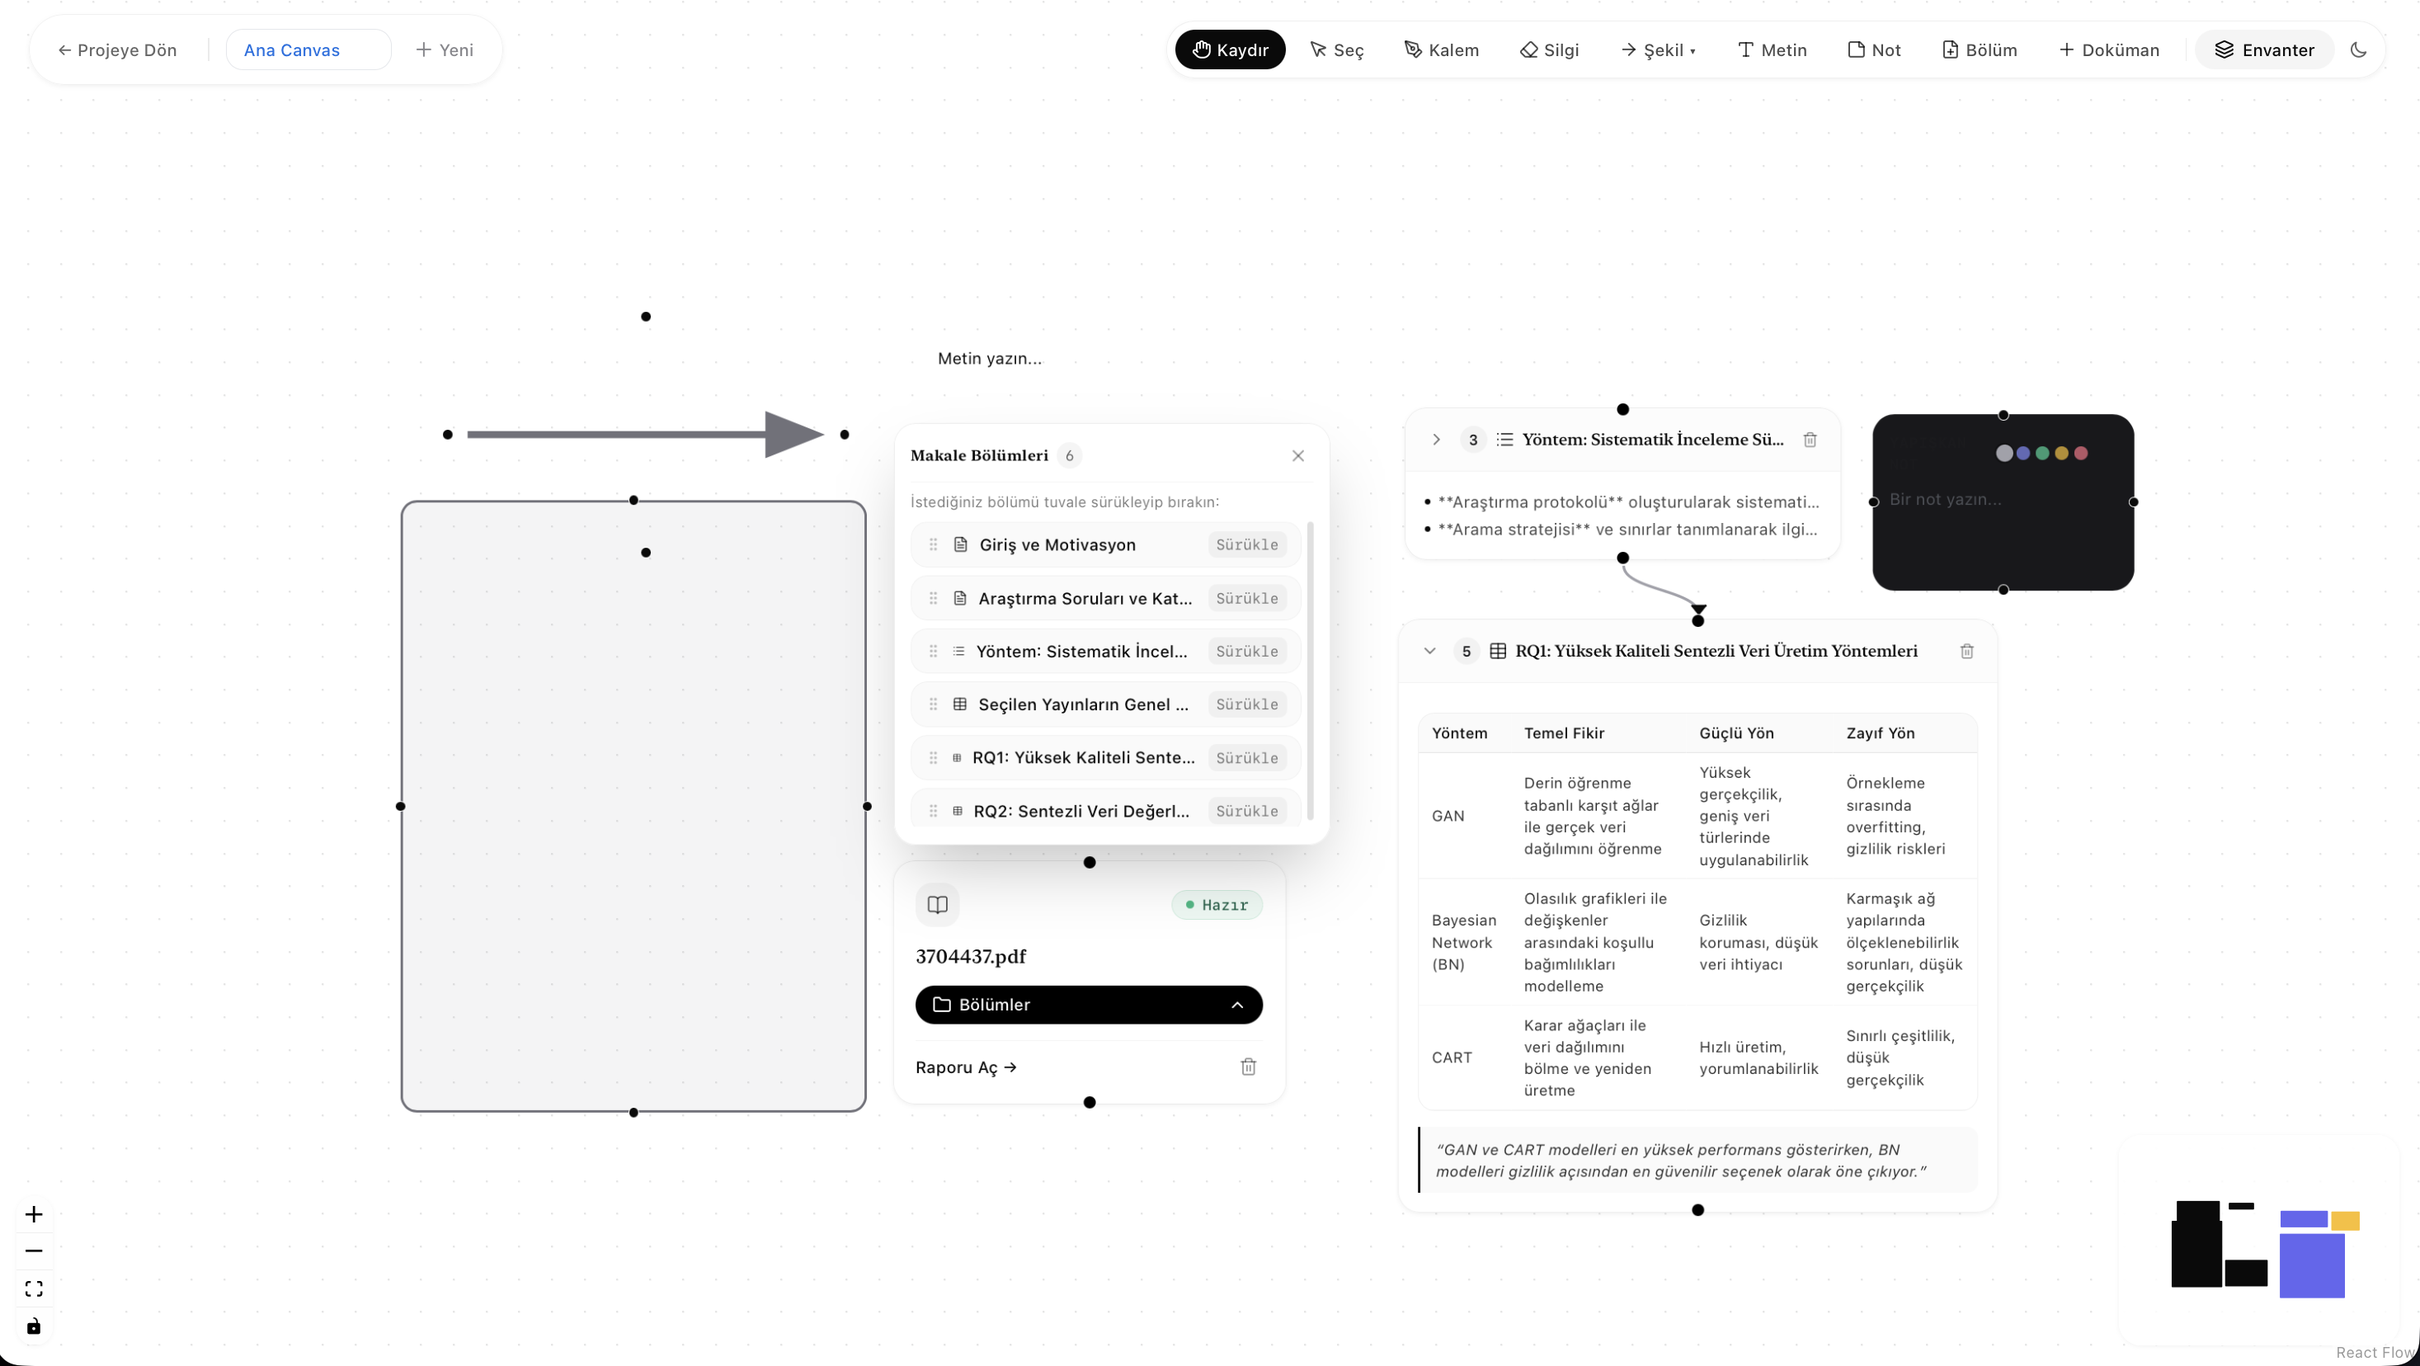
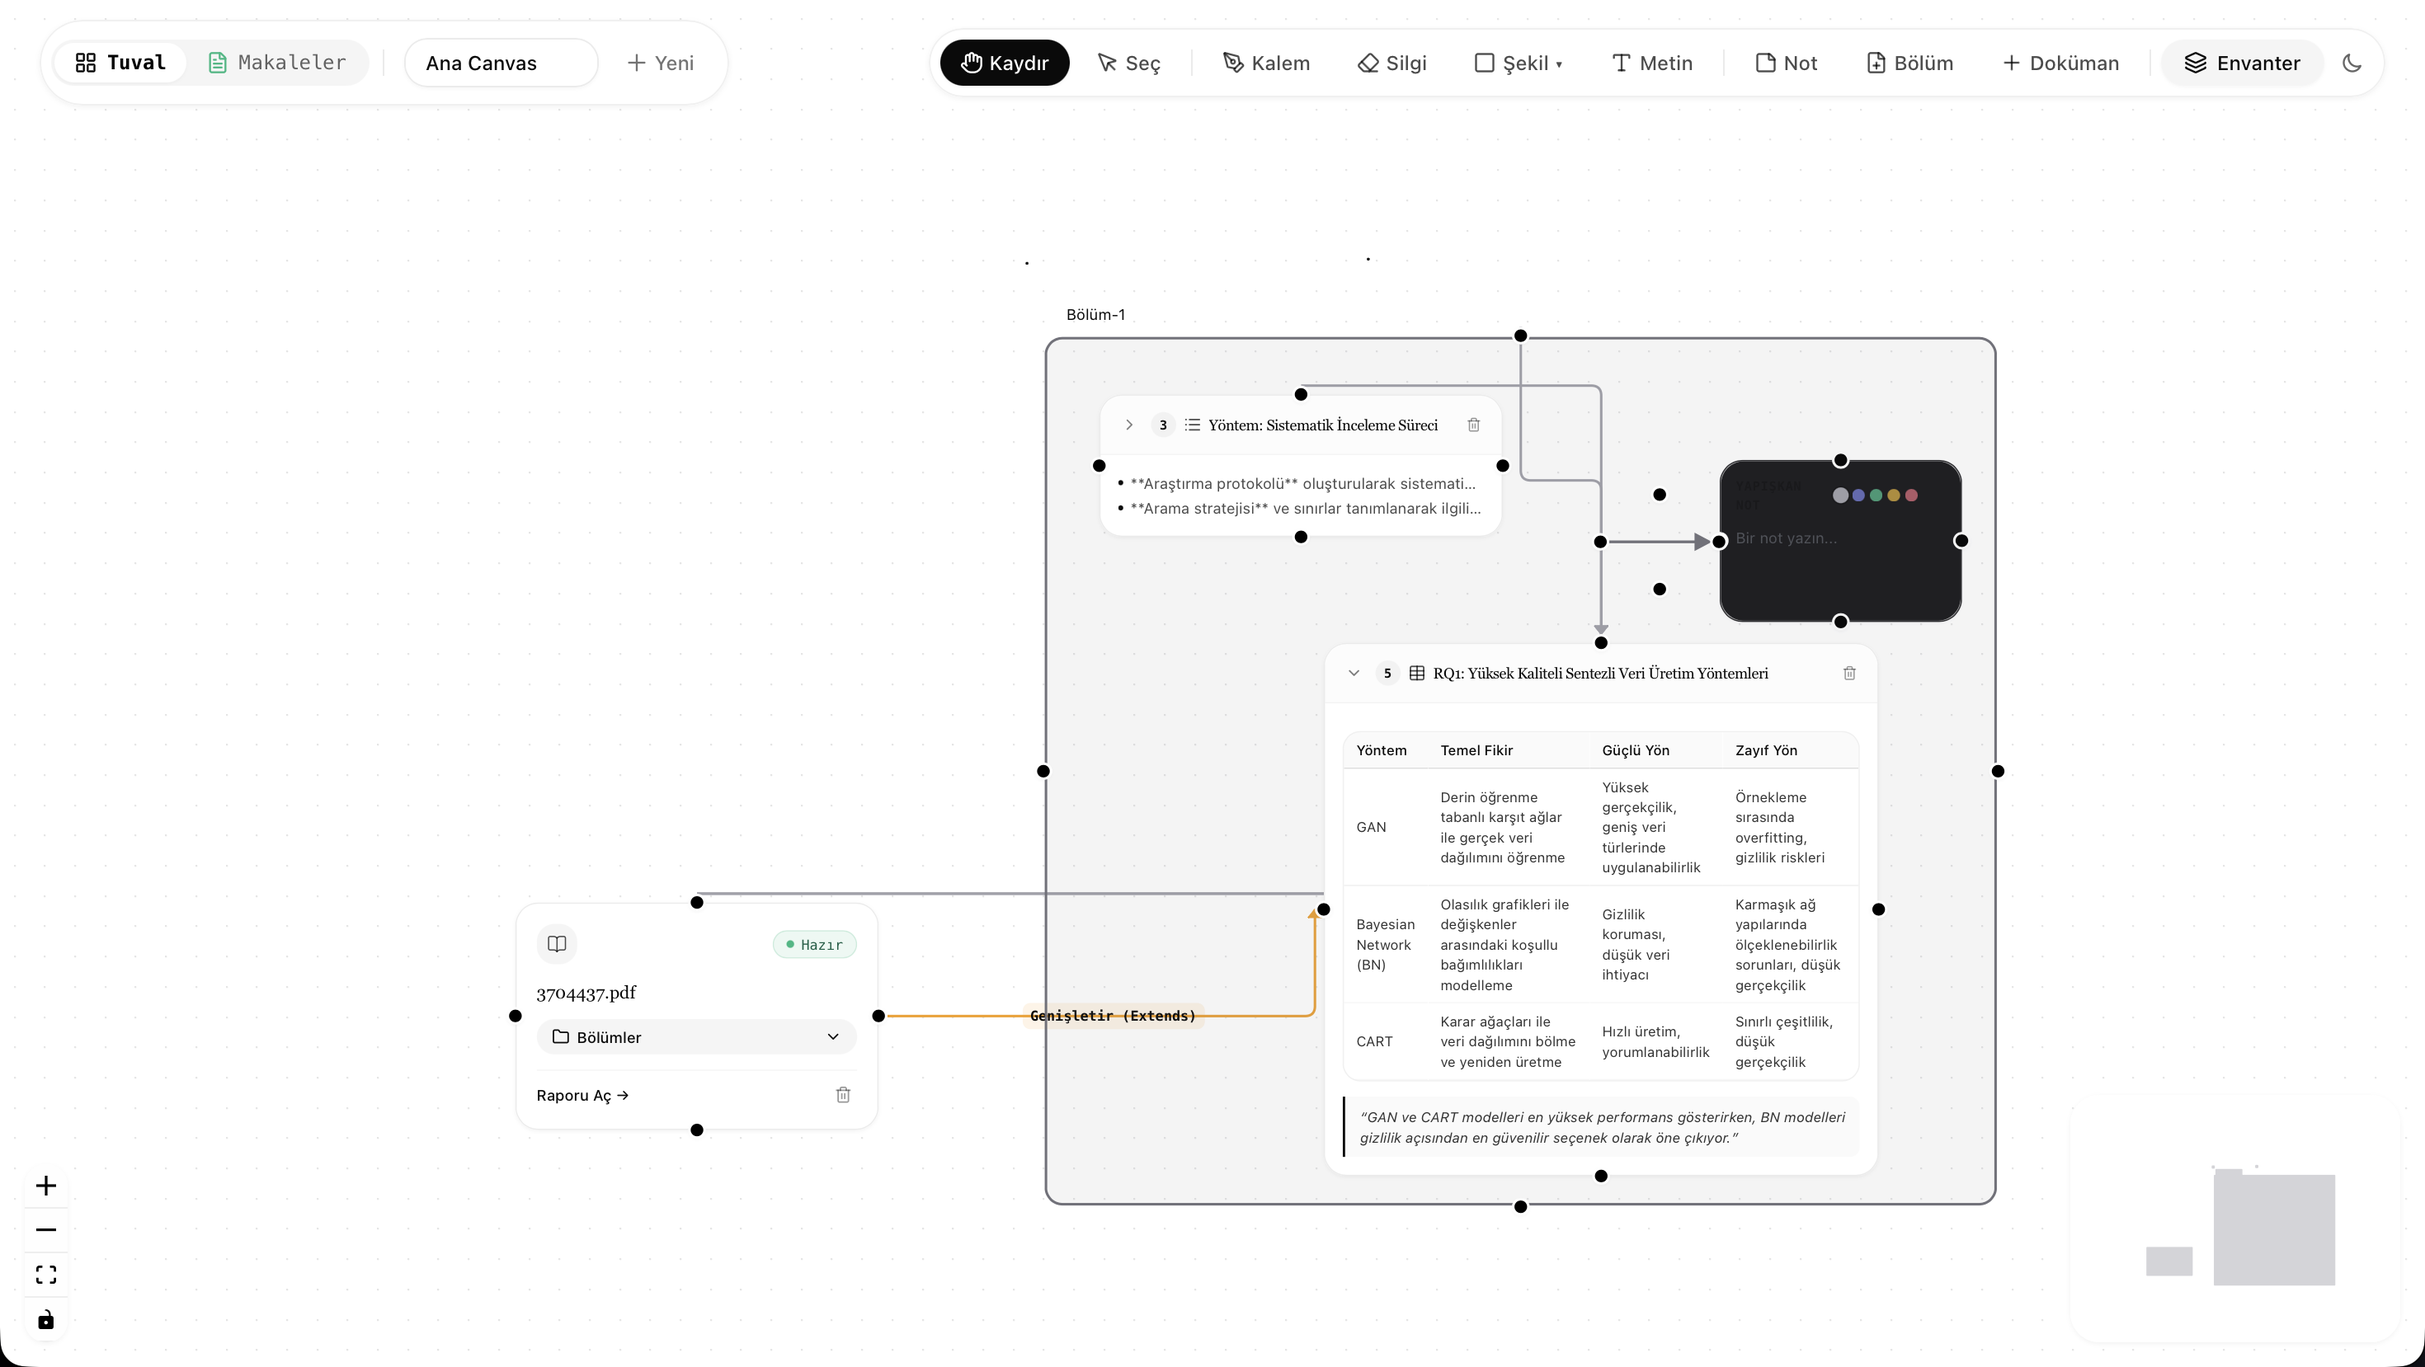
feat(canvas): implement auto-orienting dynamic edges, custom connection lines, and update documentation screenshots

diff --git a/frontend/src/components/canvas/SmartOrientedEdge.tsx b/frontend/src/components/canvas/SmartOrientedEdge.tsx
@@ -1,0 +1,80 @@
+import React from 'react';
+import { BaseEdge, EdgeProps, getSmoothStepPath, Position } from 'reactflow';
+
+export const SmartOrientedEdge: React.FC<EdgeProps> = ({
+  id,
+  sourceX,
+  sourceY,
+  targetX,
+  targetY,
+  sourcePosition: _sourcePosition,
+  targetPosition: _targetPosition,
+  style = {},
+  markerEnd,
+  label,
+  labelStyle,
+  labelBgStyle,
+  labelBgPadding,
+  labelBgBorderRadius,
+}) => {
+  const dx = targetX - sourceX;
+  const dy = targetY - sourceY;
+
+  // Horizontal threshold:
+  // Eğer yatay hizadan yukarıda bi yere gidiyorsa baktığı yön yukarı dönsün (Position.Bottom)
+  // Eğer aşağıdaysa baktığı yön aşağı dönsün (Position.Top)
+  const isTargetAbove = dy < -25;
+  const isTargetBelow = dy > 25;
+
+  let computedTargetPos: Position;
+  let computedSourcePos: Position;
+
+  if (isTargetAbove) {
+    // Hedef yukarıda: Ok YUKARI bakmalı (aşağıdan girer)
+    computedTargetPos = Position.Bottom;
+    if (Math.abs(dy) > Math.abs(dx) * 1.3) {
+      computedSourcePos = Position.Top;
+    } else {
+      computedSourcePos = dx >= 0 ? Position.Right : Position.Left;
+    }
+  } else if (isTargetBelow) {
+    // Hedef aşağıda: Ok AŞAĞI bakmalı (yukarıdan girer)
+    computedTargetPos = Position.Top;
+    if (Math.abs(dy) > Math.abs(dx) * 1.3) {
+      computedSourcePos = Position.Bottom;
+    } else {
+      computedSourcePos = dx >= 0 ? Position.Right : Position.Left;
+    }
+  } else {
+    // Yatay hizada: Sağa veya sola bakar
+    computedTargetPos = dx >= 0 ? Position.Left : Position.Right;
+    computedSourcePos = dx >= 0 ? Position.Right : Position.Left;
+  }
+
+  const [edgePath, labelX, labelY] = getSmoothStepPath({
+    sourceX,
+    sourceY,
+    sourcePosition: computedSourcePos,
+    targetX,
+    targetY,
+    targetPosition: computedTargetPos,
+    borderRadius: 8,
+  });
+
+  return (
+    <BaseEdge
+      id={id}
+      path={edgePath}
+      labelX={labelX}
+      labelY={labelY}
+      label={label}
+      labelStyle={labelStyle}
+      labelShowBg={Boolean(label)}
+      labelBgStyle={labelBgStyle}
+      labelBgPadding={labelBgPadding || [6, 4]}
+      labelBgBorderRadius={labelBgBorderRadius || 6}
+      style={style}
+      markerEnd={markerEnd}
+    />
+  );
+};

diff --git a/frontend/src/components/canvas/SmartConnectionLine.tsx b/frontend/src/components/canvas/SmartConnectionLine.tsx
@@ -1,0 +1,80 @@
+import React from 'react';
+import { ConnectionLineComponentProps, getSmoothStepPath, Position } from 'reactflow';
+
+export const SmartConnectionLine: React.FC<ConnectionLineComponentProps> = ({
+  fromX,
+  fromY,
+  fromPosition,
+  toX,
+  toY,
+  connectionLineStyle,
+}) => {
+  const dx = toX - fromX;
+  const dy = toY - fromY;
+
+  const isTargetAbove = dy < -20;
+  const isTargetBelow = dy > 20;
+
+  let targetPosition: Position;
+  let sourcePosition = fromPosition;
+
+  if (isTargetAbove) {
+    // Yukarı çekiliyorsa: Ok ucu YUKARI baksın
+    targetPosition = Position.Bottom;
+    if (Math.abs(dy) > Math.abs(dx) * 1.3) {
+      sourcePosition = Position.Top;
+    } else {
+      sourcePosition = dx >= 0 ? Position.Right : Position.Left;
+    }
+  } else if (isTargetBelow) {
+    // Aşağı çekiliyorsa: Ok ucu AŞAĞI baksın
+    targetPosition = Position.Top;
+    if (Math.abs(dy) > Math.abs(dx) * 1.3) {
+      sourcePosition = Position.Bottom;
+    } else {
+      sourcePosition = dx >= 0 ? Position.Right : Position.Left;
+    }
+  } else {
+    // Yatay
+    targetPosition = dx >= 0 ? Position.Left : Position.Right;
+    sourcePosition = dx >= 0 ? Position.Right : Position.Left;
+  }
+
+  const [edgePath] = getSmoothStepPath({
+    sourceX: fromX,
+    sourceY: fromY,
+    sourcePosition,
+    targetX: toX,
+    targetY: toY,
+    targetPosition,
+    borderRadius: 8,
+  });
+
+  const strokeColor = connectionLineStyle?.stroke || '#71717A';
+
+  return (
+    <g>
+      <defs>
+        <marker
+          id="connection-arrow"
+          viewBox="0 0 10 10"
+          refX="5"
+          refY="5"
+          markerWidth="6"
+          markerHeight="6"
+          orient="auto-start-reverse"
+        >
+          <path d="M 0 1.5 L 8 5 L 0 8.5 z" fill={strokeColor} />
+        </marker>
+      </defs>
+      <path
+        d={edgePath}
+        fill="none"
+        stroke={strokeColor}
+        strokeWidth={2}
+        strokeDasharray="4 4"
+        markerEnd="url(#connection-arrow)"
+      />
+    </g>
+  );
+};

diff --git a/frontend/src/pages/CanvasPage.tsx b/frontend/src/pages/CanvasPage.tsx
@@ -43,6 +43,8 @@ import { SectionBoxNode, SectionBoxNodeData } from '../components/canvas/Section
 import { ShapeNode } from '../components/canvas/ShapeNode';
 import { StickyNoteNode, StickyNoteNodeData } from '../components/canvas/StickyNoteNode';
 import { TextNode } from '../components/canvas/TextNode';
+import { SmartOrientedEdge } from '../components/canvas/SmartOrientedEdge';
+import { SmartConnectionLine } from '../components/canvas/SmartConnectionLine';
 import { ToolMode, ToolModeProvider, useToolMode } from '../components/canvas/ToolModeContext';
 import { useCanvasDrawing } from '../hooks/canvas/useCanvasDrawing';
 import { useCanvasShortcuts } from '../hooks/canvas/useCanvasShortcuts';
@@ -293,6 +295,15 @@ const CanvasContent: React.FC<CanvasPageProps> = ({
       drawing: DrawingNode,
       shape: ShapeNode,
       text: TextNode,
+    }),
+    []
+  );
+
+  // Custom Edge Tipleri (Akıllı Yönelimli Bağlantı İpleri)
+  const edgeTypes = useMemo(
+    () => ({
+      smoothstep: SmartOrientedEdge,
+      default: SmartOrientedEdge,
     }),
     []
   );
@@ -1019,6 +1030,8 @@ const CanvasContent: React.FC<CanvasPageProps> = ({
         onNodesDelete={onNodesDelete}
         onEdgesDelete={onEdgesDelete}
         nodeTypes={nodeTypes}
+        edgeTypes={edgeTypes}
+        connectionLineComponent={SmartConnectionLine}
         fitView
         // Pan & Select Ayrımı
         panOnDrag={toolMode === 'pan' ? [0, 1, 2] : [1, 2]}

diff --git a/README.md b/README.md
@@ -2,7 +2,7 @@
 
 **Okumadan önce, anlamak için.**
 
-PaperCanvas, akademik makaleleri ve araştırma dokümanlarını (Matematik, Makine Öğrenmesi, Yapay Zeka ve Veri Bilimi odaklı) otomatik olarak analiz eden, ortak yapıları ayrıştıran, matematiksel formülleri LaTeX formatına çeviren ve sonsuz bir görsel tuval üzerinde ekipçe sentezlemenizi sağlayan yeni nesil bir ArGe araştırma atlasıdır.
+PaperCanvas, akademik makaleleri ve araştırma dokümanlarını (Matematik, Makine Öğrenmesi, Yapay Zeka ve Veri Bilimi odaklı) otomatik olarak analiz eden, ortak yapıları ayrıştıran, matematiksel formülleri LaTeX formatına çeviren ve akıllı yönelimli sonsuz bir görsel tuval üzerinde ekipçe sentezlemenizi sağlayan yeni nesil bir ArGe araştırma atlasıdır.
 
 ![PaperCanvas Ana Sayfa](screenshots/anasayfa1.png)
 
@@ -25,11 +25,18 @@ Sonuç olarak: Makalenin kendi görselleri, tabloları, matematiksel notasyonu v
 | Adım | Başlık | Açıklama |
 |---|---|---|
 | 01 | Makaleni Yükle | PDF dosyasını sürükleyip bırakın, asenkron analiz kuyruğu otomatik başlasın. |
-| 02 | Otomatik Analiz | Yöntem, bulgular, matematiksel formüller, görsel ve tablolar tespit edilir. |
-| 03 | Planla ve Onayla | Rapora hangi bölümlerin gireceğine, sırasına ve diyagramlara karar verin. |
-| 04 | Canvas'ta Organize Et | Bölümleri ve dokümanları tuvale sürükleyin, notlar ekleyin ve ilişkiler kurun. |
+| 02 | Otomatik Analiz | Yöntem, bulgular, matematiksel formüller (KaTeX), görsel ve tablolar AST tabanlı tespit edilir. |
+| 03 | Planla ve Onayla | Rapora hangi bölümlerin gireceğine, sırasına ve diyagramlara interaktif kontrol paneliyle karar verin. |
+| 04 | Canvas'ta Organize Et | Bölümleri ve dokümanları tuvale sürükleyin, serbest yönelimli notlar ekleyin ve anlamsal ilişkiler kurun. |
 
-![Nasıl Çalışır](screenshots/anasayfa3.png)
+### Adım 01 & 02: Optik Katmanlama ve Otomatik Semantik Analiz
+![Nasıl Çalışır - Adım 1 ve 2](screenshots/anasayfa3a.png)
+
+### Adım 03: İnteraktif Planlama ve Onay
+![Nasıl Çalışır - Adım 3](screenshots/anasayfa3b.png)
+
+### Adım 04: İnteraktif Zihin Tuvali
+![Nasıl Çalışır - Adım 4](screenshots/anasayfa4.png)
 
 ---
 
@@ -57,53 +64,58 @@ PaperCanvas, farklı bilimsel disiplinlerin kendine has makale yapılarına gör
 - İstatistiksel değerlendirme metriklerini tablolara dönüştürür.
 - Sayısal sonuç ve kıyaslama özetleri sunar.
 
-![Disiplinler](screenshots/anasayfa4.png)
+![Disiplinler](screenshots/anasayfa5.png)
 
 ---
 
 ## Ekran Görüntüleri ve Arayüz Galerisi
 
-### 1. Giriş ve Kimlik Doğrulama
-Supabase JWT entegrasyonu ile güvenli, oturum bazlı çalışma alanı izolasyonu.
+### 1. Giriş ve 3D Düşünce Sahnesi
+Supabase JWT entegrasyonu ile güvenli oturum açma, editoryal form tasarımı ve arka planda fare hareketine duyarlı çift katmanlı 3D topolojik araştırma düğümleri.
 
 ![Giriş Sayfası](screenshots/loginpage.png)
 
-### 2. Projeler ve Araştırma Alanları
-Çok kullanıcılı ekip çalışma alanları, rol bazlı yetkilendirme ve üye yönetimi.
+### 2. Araştırma Atölyeleri (Çalışma Alanları)
+Çok kullanıcılı ekip çalışma sahaları, rol bazlı yetkilendirme (`Sahip` / `Editör` / `İzleyici`), anlık atölye durumu ve tek tıkla doğrudan tuvale geçiş.
 
 ![Proje Listesi](screenshots/projects.png)
 
-### 3. Doküman Envanteri ve Yükleme
-PDF yükleme, arka plan işlem durumu takibi ve ortak doküman kütüphanesi.
+### 3. Makale Masası & Adaptif Semantik Kartlar
+- **Merkezi Çalışma Alanı Seçicisi:** `[ 🗺 Uzamsal Tuval (Canvas) ] ⇄ [ 📑 Makale Masası ]` geçişi.
+- **Esnek Çıkarım Vitrini:** Dosya adı karmaşası yerine temiz editoryal başlıklar; makalenin türüne göre otomatik KaTeX çekirdek formülü, SOTA kıyaslama rozeti veya semantik AST bölümleme gösterimi.
+- **Doğrudan Aksiyon:** Makaleyi raporda açma veya tuvaldeki konumuna tek tıkla odaklanma.
 
 ![Doküman Yönetimi](screenshots/documents.png)
 
-### 4. Yapılandırılmış Rapor ve LaTeX Görünümü
-Docling ayrıştırması, KaTeX matematiksel dizgisi ve etkileşimli içerik kartları.
+### 4. Akıllı Yönelimli Sonsuz Tuval (Spatial Canvas)
+- **Akıllı Yönelimli Bağlantı İpleri (`SmartOrientedEdge`):** İpin hedefi başlangıcın yatay hizasından yukarıdaysa varış açısı ve oku otomatik olarak **YUKARI (↑)**; aşağıdaysa **AŞAĞI (↓)** döner.
+- **Serbest 4-Yönlü Bağlantı:** Kutuların 4 ana kenarındaki (Üst, Sağ, Alt, Sol) noktalardan serbestçe ip çıkarma ve bağlama (`ConnectionMode.Loose`).
+- **Kategorize İlişki Menüsü & Renk Paleti:** Çizgiye çift tıklandığında açılan ML & Mimari, Bilimsel ve Mantıksal ilişki etiketleri ile 5 renkli (Nötr, İndigo, Zümrüt, Kehribar, Gül) ip paleti.
+- **Monokrom Radar Haritası & Yüzen Araç Adaları:** Navigasyon, serbest çizim ve içerik düğümlerine ayrılmış modern araç çubuğu.
+
+![Görsel Canvas](screenshots/canvas.png)
+
+### 5. Yapılandırılmış Rapor ve LaTeX Görünümü
+Docling ayrıştırması, KaTeX matematiksel dizgisi, etkileşimli içerik kartları ve analiz hiyerarşisi.
 
 ![Rapor Görünümü 1](screenshots/reports1.png)
 ![Rapor Görünümü 2](screenshots/reports2.png)
 ![Rapor Görünümü 3](screenshots/reports3.png)
 ![Rapor Görünümü 4](screenshots/reports4.png)
 
-### 5. RAG Destekli Araştırma Asistanı (Chatbot)
-Vektör indeksli doküman üzerinde kaynak sayfa referanslı, halüsinasyon korumalı soru-cevap.
+### 6. RAG Destekli Araştırma Asistanı (Chatbot)
+Vektör indeksli doküman üzerinde kaynak sayfa referanslı, halüsinasyon korumalı soru-cevap asistanı.
 
 ![Chatbot](screenshots/chatbot.png)
 
-### 6. Sonsuz Canvas Çalışma Alanı
-React Flow tabanlı, doküman kutucukları, rapor bölümleri, notlar ve yönlü ilişkiler içeren görsel sentez tuvali.
-
-![Görsel Canvas](screenshots/canvas.png)
-
 ---
 
-## Proje Geliştirme Adımları ve Fazlar
+## Proje Geliştirme Fazları ve Mimari Adımları
 
 <details>
-<summary><b>Faz 1: Analiz Motoru ve Web Arayüzü (Adım 1 - 9)</b></summary>
+<summary><b>Faz 1: Çekirdek Analiz Pipeline ve Raporlama (Adım 1 - 9)</b></summary>
 
-- **Adım 1 - Docling Parser:** PDF dokümanlarını layout-aware olarak ayrıştırarak bölümler (sections), başlık seviyeleri, sayfa aralıkları ve matematiksel formülleri yapılandırılmış JSON çıktısına dönüştürür.
+- **Adım 1 - Docling ile İskelet Ayrıştırma:** Docling parser ile PDF belgelerinden hiyerarşik yapı (başlıklar, paragraflar, tablolar, formüller ve görseller) çıkarılır.
 - **Adım 2 - PaperProfile Sınıflandırıcısı:** Düşük token maliyetiyle doküman iskeletini tek seferlik LLM çağrısıyla analiz ederek 17 bağımsız içerik bayrağı, birincil araştırma alanı (primary_domain) ve güven skoru çıkarır.
 - **Adım 3 - Section Routing ve ChromaDB:** PaperProfile bayraklarına göre makale için üretilecek aktif rapor bölüm gruplarını belirler ve bölüm sınırlarını koruyarak dokümanı yerel ChromaDB vektör uzayına indeksler.
 - **Adım 4 - Slot Doldurma ve Rapor Üretimi:** Her aktif bölüm grubu için ChromaDB'den semantik parçaları çeker ve structured output ile tipine uygun (prose, table, list) zengin rapor içeriğini kaynak sayfa referanslarıyla üretir.
